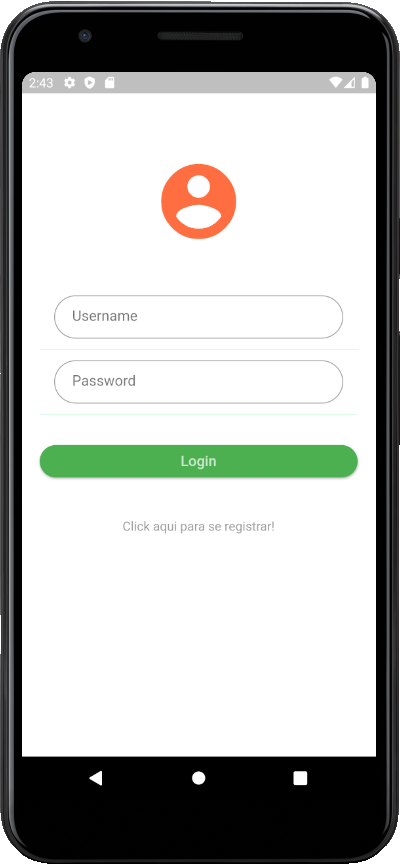
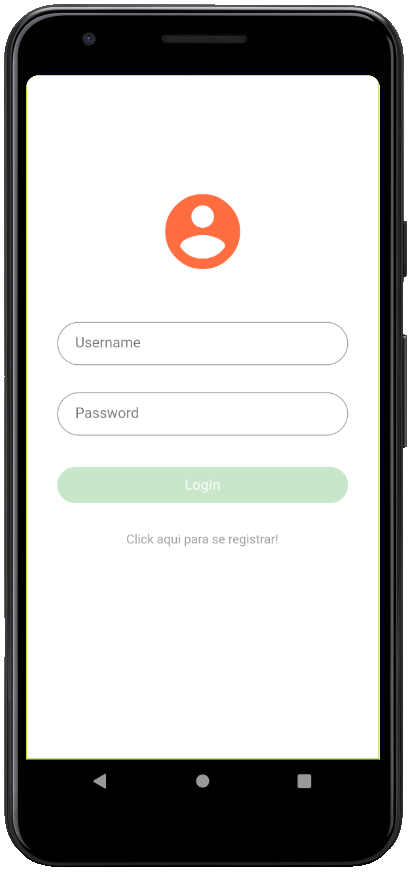
finalizando login

Changed region(s): [[0.0, 0.0, 1.0, 0.9977], [0.39, 0.1871, 0.6, 0.3118]]

diff --git a/lib/login.dart b/lib/login.dart
@@ -1,75 +1,141 @@
-  
+import 'dart:convert';
+
 import 'package:flutter/material.dart';
+import 'package:flutter/services.dart';
+import 'package:http/http.dart' as http;
+import 'package:shared_preferences/shared_preferences.dart';
 
-class Login extends StatelessWidget {
+import 'main.dart';
 
-  Widget _buildPageContent(BuildContext context) {
+class LoginPage extends StatefulWidget {
+  @override
+  _LoginPageState createState() => _LoginPageState();
+}
+
+class _LoginPageState extends State<LoginPage> {
+
+  bool _isLoading = false;
+
+  @override
+  Widget build(BuildContext context) {
+    SystemChrome.setSystemUIOverlayStyle(SystemUiOverlayStyle.light.copyWith(statusBarColor: Colors.transparent));
+    return Scaffold(
+      body: Container(
+         padding: EdgeInsets.all(20.0),
+        decoration: BoxDecoration(
+          color: Colors.white,
+        ),
+        child: _isLoading ? Center(child: CircularProgressIndicator()) : ListView(
+          children: <Widget>[
+            headerSection(),
+            textSection(),
+            buttonSection(),
+            signupSection(),
+          ],
+        ),
+      ),
+    );
+  }
+
+  signIn(String email, pass) async {
+    SharedPreferences sharedPreferences = await SharedPreferences.getInstance();
+    var url = "http://10.0.2.2:5003/api/Auth/login";
+    var  headers = {"Content-Type": "application/json","accept": "*/*" };
+    var data = jsonEncode({  'Username': email, 'Password': pass });
+
+
+    var jsonResponse = null;   
+    var response = await http.post(url,headers:headers, body: data);
+    if(response.statusCode == 200) {
+      jsonResponse = json.decode(response.body);
+      if(jsonResponse != null) {
+        setState(() {
+          _isLoading = false;
+        });
+        sharedPreferences.setString("token", jsonResponse['token']);
+        Navigator.of(context).pushAndRemoveUntil(MaterialPageRoute(builder: (BuildContext context) => MainPage()), (Route<dynamic> route) => false);
+      }
+    }
+    else {
+      setState(() {
+        _isLoading = false;
+      });
+      print(response.body);
+    }
+  }
+
+  Container buttonSection() {
     return Container(
-      padding: EdgeInsets.all(20.0),
-      color: Colors.white,
-      child: ListView(
-        children: <Widget>[
-          Column(
-            children: <Widget>[
-             
-              SizedBox(height: 50,),
-              Container(width: 200, child: Icon(Icons.account_circle,size: 100.0,color: Colors.deepOrangeAccent,),),
-              SizedBox(height: 50,),
-              ListTile(
-                title: TextField(
-                  style: TextStyle(color: Colors.white),
-                  decoration: InputDecoration(
-        hintText: 'Username',
-        contentPadding: EdgeInsets.fromLTRB(20.0, 10.0, 20.0, 10.0),
-        border: OutlineInputBorder(borderRadius: BorderRadius.circular(32.0)),
-      ),
-                )
-              ),
-              Divider(color: Colors.greenAccent,),
-              ListTile(
-                title: TextField(
-                  obscureText: true,
-                  style: TextStyle(color: Colors.white),
-                  decoration: InputDecoration(
-        hintText: 'Password',
-        contentPadding: EdgeInsets.fromLTRB(20.0, 10.0, 20.0, 10.0),
-        border: OutlineInputBorder(borderRadius: BorderRadius.circular(32.0)),
-      ),
-                )
-              ),
-              Divider(color: Colors.greenAccent,),
-              SizedBox(height: 20,),
-              Row(
-                children: <Widget>[
-                  Expanded(
-                    child: RaisedButton(
-                      onPressed: (){
-                        Navigator.pushReplacement(context, MaterialPageRoute(
-                          builder: (context) => Login()
-                        ));
-                      },
-                      shape: RoundedRectangleBorder(
+      width: MediaQuery.of(context).size.width,
+      height: 40.0,
+      padding: EdgeInsets.symmetric(horizontal: 15.0),
+      margin: EdgeInsets.only(top: 15.0),
+      child: RaisedButton(
+        onPressed: emailController.text == "" || passwordController.text == "" ? null : () {
+          setState(() {
+            _isLoading = true;
+          });
+          signIn(emailController.text, passwordController.text);
+        },
+        shape: RoundedRectangleBorder(
                         borderRadius:BorderRadius.circular(30.0)
                       ),
-                      color: Colors.green,
-                      child: Text('Login', style: TextStyle(color: Colors.white70, fontSize: 16.0),),
-                    ),
-                  ),
-                ],
-              ),
-              SizedBox(height: 40,),
-              Text('Click aqui para se registrar!', style: TextStyle(color: Colors.grey.shade500),)
-            ],
+        color: Colors.green,
+        disabledColor: Colors.green[100],
+        child: Text('Login', style: TextStyle(color: Colors.white70, fontSize: 16.0)),
+      ),
+    );
+  }
+
+  final TextEditingController emailController = new TextEditingController();
+  final TextEditingController passwordController = new TextEditingController();
+
+  Container textSection() {
+    return Container(
+      padding: EdgeInsets.symmetric(horizontal: 15.0, vertical: 20.0),
+      child: Column(
+        children: <Widget>[
+          TextFormField(
+            controller: emailController,
+            cursorColor: Colors.white,
+
+            style: TextStyle(color: Colors.black),
+            decoration: InputDecoration(
+             hintText: 'Username',
+        contentPadding: EdgeInsets.fromLTRB(20.0, 10.0, 20.0, 10.0),
+        border: OutlineInputBorder(borderRadius: BorderRadius.circular(32.0)),
+            ),
+          ),
+          SizedBox(height: 30.0),
+          TextFormField(
+            controller: passwordController,
+            cursorColor: Colors.white,
+            obscureText: true,
+            style: TextStyle(color: Colors.black),
+            decoration: InputDecoration(
+              hintText: 'Password',
+        contentPadding: EdgeInsets.fromLTRB(20.0, 10.0, 20.0, 10.0),
+        border: OutlineInputBorder(borderRadius: BorderRadius.circular(32.0)),
+            ),
           ),
         ],
       ),
     );
   }
 
-  @override
-    Widget build(BuildContext context) {
-      return Scaffold(
-        body: _buildPageContent(context),
-      );
-    }
+  Container headerSection() {
+    return Container(
+      margin: EdgeInsets.only(top: 50.0),
+      padding: EdgeInsets.symmetric(horizontal: 20.0, vertical: 30.0),
+      child: Icon(Icons.account_circle,size: 100.0,color: Colors.deepOrangeAccent,),
+    );
+  }
+    Container signupSection() {
+    return Container(
+       margin: EdgeInsets.only(top: 2.0),
+      padding: EdgeInsets.symmetric( vertical: 30.0),
+       child: Text('Click aqui para se registrar!',textAlign: TextAlign.center, style: TextStyle(color: Colors.grey.shade500)
+    ),
+    );
+  }
 }

diff --git a/lib/main.dart b/lib/main.dart
@@ -1,21 +1,123 @@
+import 'dart:convert';
+
 import 'package:flutter/material.dart';
+import 'package:flutter/services.dart';
+import 'package:http/http.dart' as http;
+import 'package:shared_preferences/shared_preferences.dart';
+
 import 'login.dart';
 
 void main() => runApp(MyApp());
 
 class MyApp extends StatelessWidget {
- 
+
 
   @override
   Widget build(BuildContext context) {
     return MaterialApp(
-      title: 'Login App',
+      title: "FrontFlutter",
       debugShowCheckedModeBanner: false,
+      home: MainPage(),
       theme: ThemeData(
-        primarySwatch: Colors.green,
-        
+        primaryColor: Colors.deepOrangeAccent,
+        accentColor: Colors.white70
       ),
-      home: Login(),
+    );
+  }
+}
+
+class MainPage extends StatefulWidget {
+  @override
+  _MainPageState createState() => _MainPageState();
+}
+
+class _MainPageState extends State<MainPage> {
+
+  SharedPreferences sharedPreferences;
+
+    int _selectedIndex = 0;
+    static const TextStyle optionStyle =
+      TextStyle(fontSize: 30, fontWeight: FontWeight.bold);
+  static const List<Widget> _widgetOptions = <Widget>[
+    Text(
+      'Index 0: Home',
+      style: optionStyle,
+    ),
+    Text(
+      'Index 1: Clientes',
+      style: optionStyle,
+    ),
+    Text(
+      'Index 2: Arquivos',
+      style: optionStyle,
+    ),
+    Text(
+      'Index 3: Contato',
+      style: optionStyle,
+    ),
+  ];
+    void _onItemTapped(int index) {
+    setState(() {
+      _selectedIndex = index;
+    });
+  }
+
+  @override
+  void initState() {
+    super.initState();
+    checkLoginStatus();
+  }
+
+  checkLoginStatus() async {
+    sharedPreferences = await SharedPreferences.getInstance();
+    if(sharedPreferences.getString("token") == null) {
+      Navigator.of(context).pushAndRemoveUntil(MaterialPageRoute(builder: (BuildContext context) => LoginPage()), (Route<dynamic> route) => false);
+    }
+  }
+
+  @override
+  Widget build(BuildContext context) {
+    return Scaffold(
+      appBar: AppBar(
+        title: Text("FrontFlutter", style: TextStyle(color: Colors.white)),
+        actions: <Widget>[
+          FlatButton(
+            onPressed: () {
+              sharedPreferences.clear();
+              sharedPreferences.commit();
+              Navigator.of(context).pushAndRemoveUntil(MaterialPageRoute(builder: (BuildContext context) => LoginPage()), (Route<dynamic> route) => false);
+            },
+            child: Text("Log Out", style: TextStyle(color: Colors.white)),
+          ),
+        ],
+      ),
+      body: Center(
+        child: _widgetOptions.elementAt(_selectedIndex),
+      ),
+      bottomNavigationBar: BottomNavigationBar(
+        type: BottomNavigationBarType.fixed,
+        items: const <BottomNavigationBarItem>[
+          BottomNavigationBarItem(
+            icon: Icon(Icons.home),
+            title: Text('Home'),
+          ),
+          BottomNavigationBarItem(
+            icon: Icon(Icons.people),
+            title: Text('Clientes'),
+          ),
+          BottomNavigationBarItem(
+            icon: Icon(Icons.file_upload),
+            title: Text('Arquivos'),
+          ),
+          BottomNavigationBarItem(
+            icon: Icon(Icons.contact_mail),
+            title: Text('Contato'),
+          ),
+        ],
+        currentIndex: _selectedIndex,
+        selectedItemColor: Colors.amber[800],
+        onTap: _onItemTapped,
+      ),
     );
   }
 }

diff --git a/README.md b/README.md
@@ -9,9 +9,9 @@ Olá! Seja bem vindo ;)
 Essa aplicação tem como objetivo disponibillizar um front end para as APIs desenvolvidas em .Net core, Python e Java disponibilizadas nessa conta do github.
 Ela possui uma interfase para login e gerenciamento de uma base de dados exemplo de clientes.
 
-![GitHub Logo](/img/login.png)
+![Login](/img/login.png)![home](/img/home.png)![clientes](/img/crud.png)
 
-# Executando o projeto 
+## Executando o projeto 
 
 - Depois de clonar este repositório, navegue até a raiz dele.
 - Em seguida, execute no prompt `. / Get_packages.sh`
